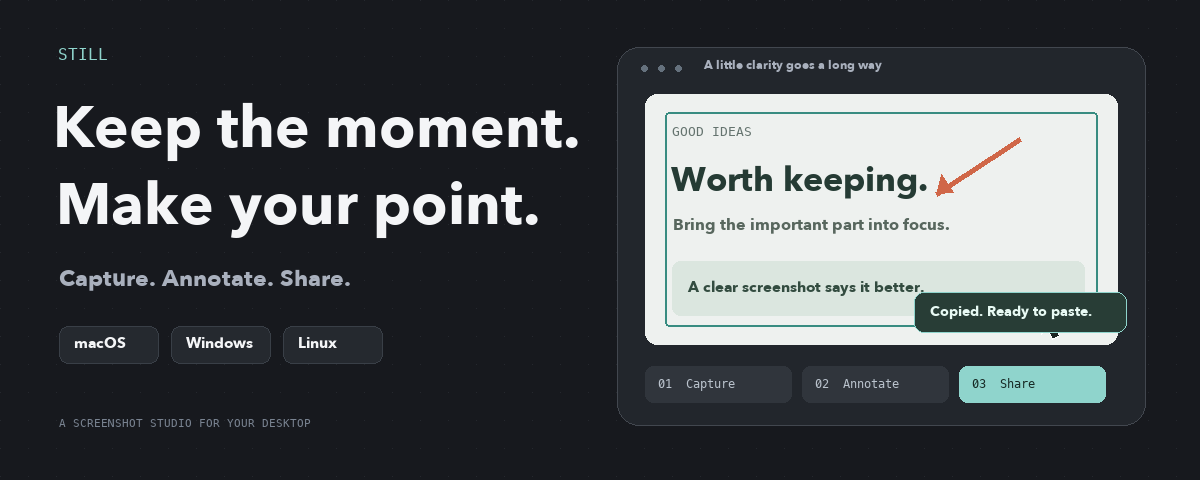
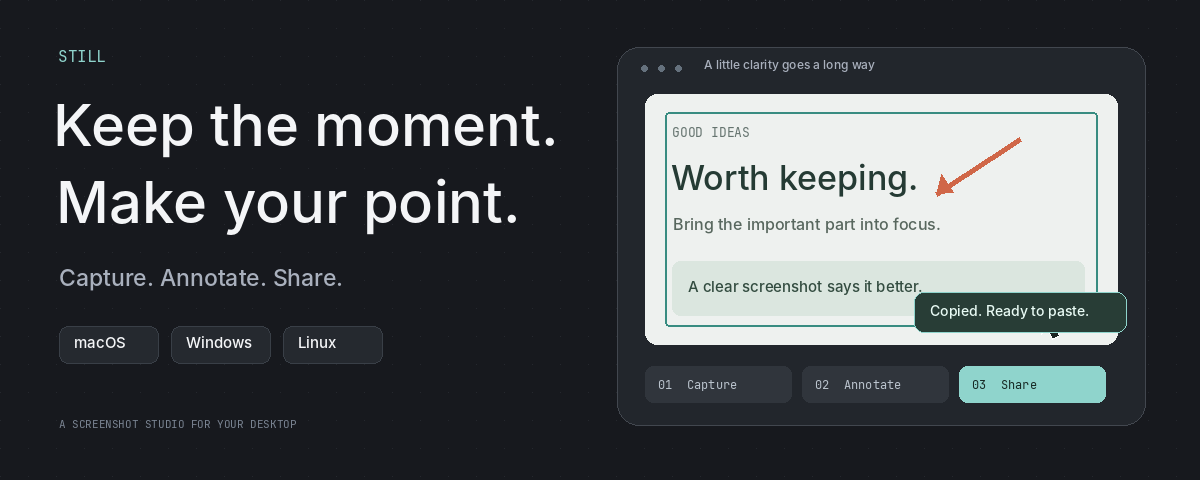
README artwork: draw with Inter so 'Capture' renders correctly
Claude-Session: https://claude.ai/code/session_01WVsj6eLvePPLQNE4L1mqVw

diff --git a/scripts/readme-artwork.py b/scripts/readme-artwork.py
@@ -4,10 +4,12 @@ from PIL import Image, ImageDraw, ImageFont
 import math
 ROOT=Path(__file__).resolve().parents[1]
 OUT=ROOT/'assets/readme'; OUT.mkdir(exist_ok=True)
-FONT=Path('/System/Library/Fonts/Avenir Next.ttc')
-MONO=Path('/System/Library/Fonts/Menlo.ttc')
+# Inter and JetBrains Mono first (free fonts, the same wherever this runs); a system collection's first face can be an
+# odd weight that mangles letters, which once turned "Capture" into "CaptUre".
+FONTS=[Path('/usr/share/fonts/opentype/inter/Inter-Medium.otf'),Path('/Library/Fonts/Inter-Medium.otf'),Path('/usr/share/fonts/truetype/dejavu/DejaVuSans.ttf')]
+MONOS=[Path('/usr/share/fonts/truetype/jetbrains-mono/JetBrainsMono-Regular.ttf'),Path('/Library/Fonts/JetBrainsMono-Regular.ttf'),Path('/usr/share/fonts/truetype/dejavu/DejaVuSansMono.ttf')]
 def font(size, mono=False):
-    candidates=[MONO if mono else FONT,Path('/usr/share/fonts/truetype/dejavu/DejaVuSans.ttf')]
+    candidates=MONOS if mono else FONTS
     return next((ImageFont.truetype(str(p),size) for p in candidates if p.exists()),ImageFont.load_default())
 W,H=1200,480
 bg='#17191e'; ink='#f4f5f7'; muted='#a9b0bd'; accent='#8fd4cc'
